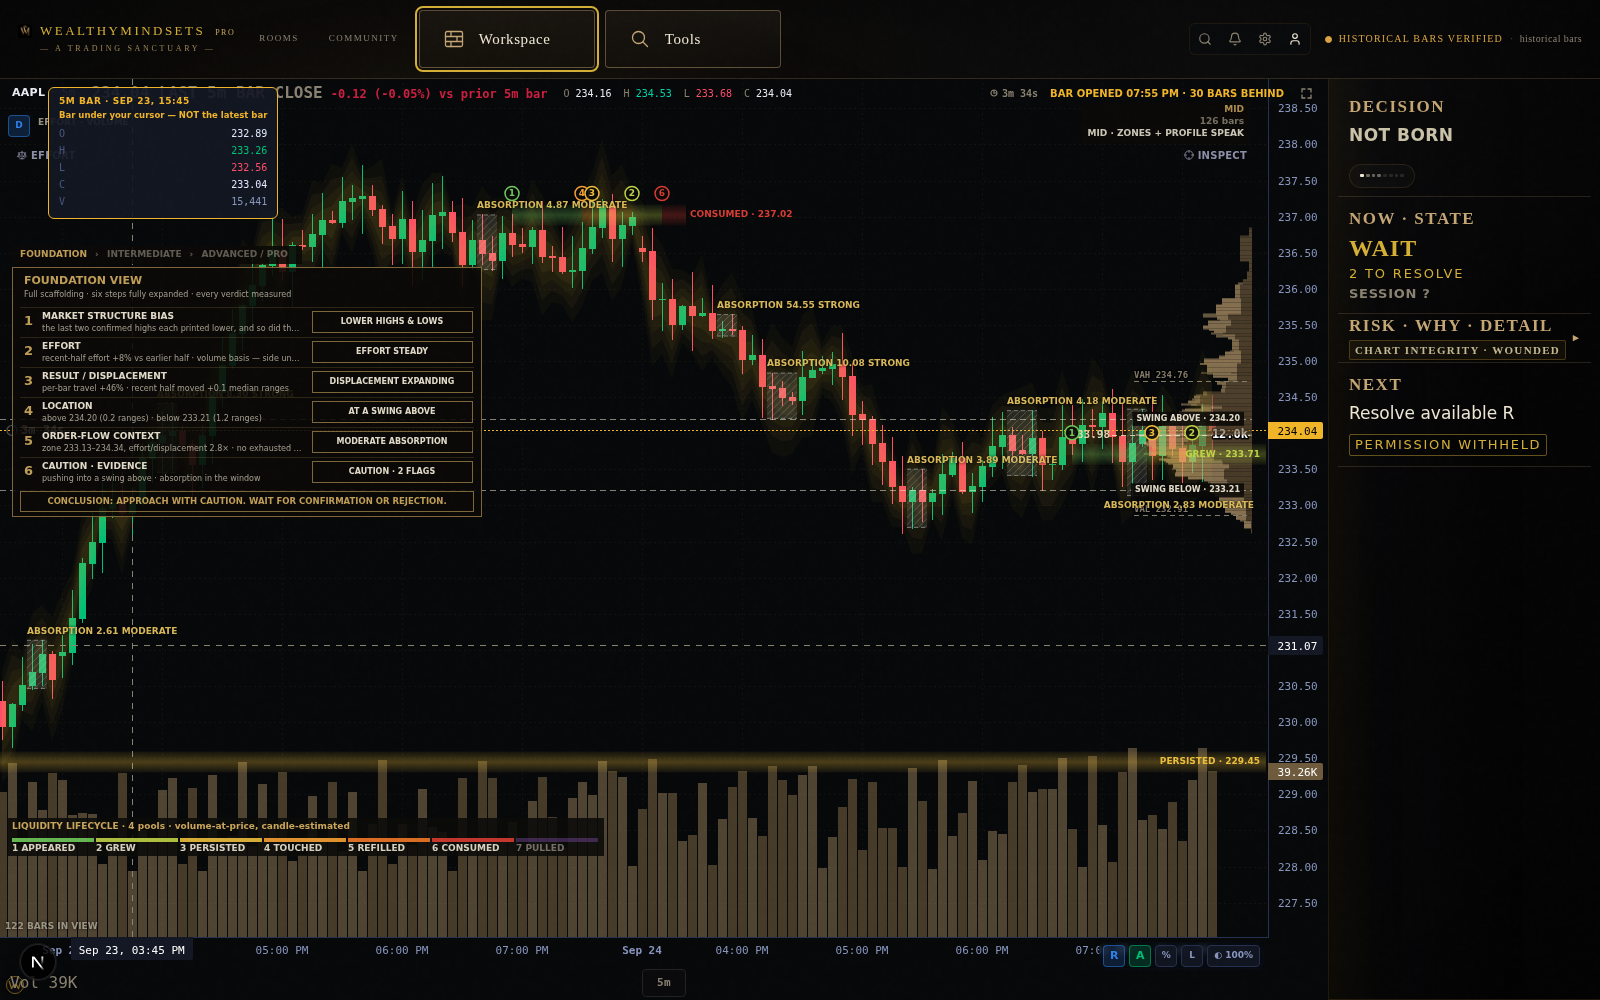
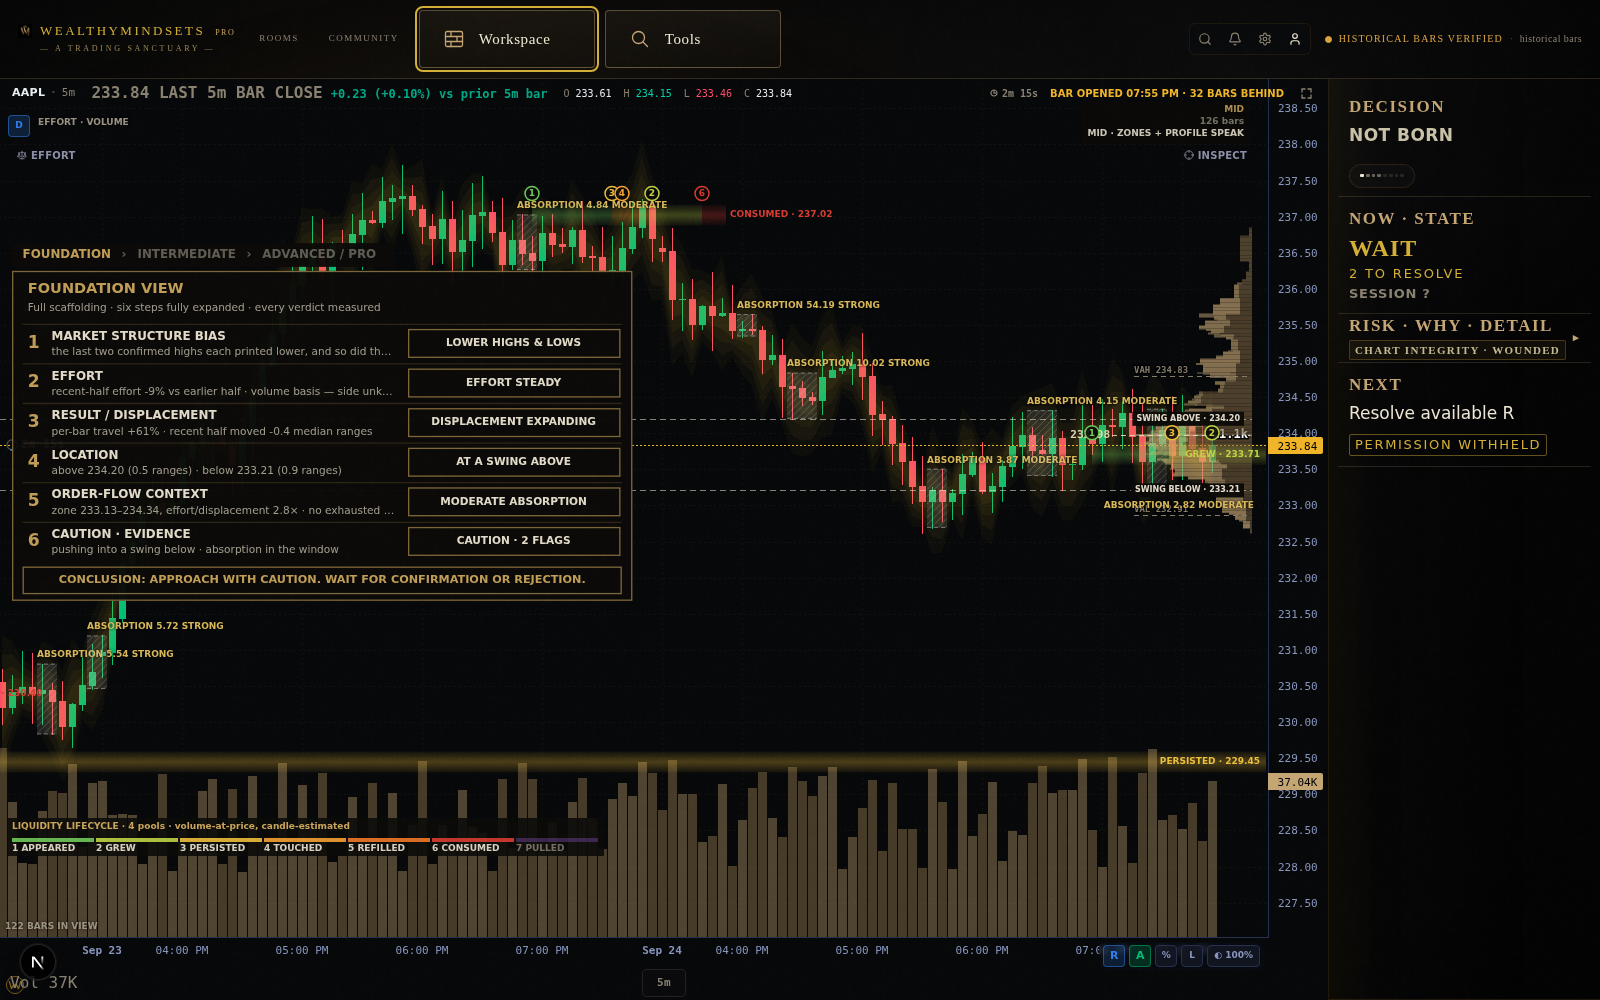
Question mode names its zone on price (Founder question-driven mockup)
The lens band now carries the mockup's ABSORPTION ZONE tag with its range,
and — only when the lens's own control reading says EFFORT ABSORBED — a
leader callout NO CONVINCING DISPLACEMENT with the measured displacement vs
effort. Both clamp to the plot edge (not the axis) and take a free slot;
absorption chips join the frame's obstacle list. Receipt: ds.questionCallout.

Claude-Session: https://claude.ai/code/session_01Gntm2WzCaW5uQMS2aMojoZ

diff --git a/src/components/chart/MainChart.tsx b/src/components/chart/MainChart.tsx
@@ -7994,6 +7994,7 @@ export function MainChart({ symbol, timeframe, setTimeframe, footprintType, foot
               if (freeY == null) { absorbChipsHidden++; continue; }
               const chipY = freeY;
               absorbChipRects.push({ x: chipX, y: chipY, w: chipW, h: chipH });
+              floatingChips.push({ x: chipX, y: chipY, w: chipW, h: chipH });
               if (desktopShelfInstrument) {
                 // Direct annotation, not another gold card. A restrained
                 // shadow protects legibility while the shelf remains the
@@ -8266,6 +8267,57 @@ export function MainChart({ symbol, timeframe, setTimeframe, footprintType, foot
                     ctx.strokeStyle = lens.kind === "EXHAUSTION" ? "rgba(226,92,92,0.7)" : "rgba(240,180,41,0.75)";
                     ctx.lineWidth = 1;
                     ctx.strokeRect(x0 + 0.5, Math.round(top) + 0.5, W - 76 - x0, Math.round(h));
+                    // MOCK 4's tag on the band: the zone NAMED on price, and —
+                    // only when the lens's own control reading says effort was
+                    // absorbed — the measured displacement that failed to come.
+                    // Both lines are the lens's numbers; no trend is claimed.
+                    const tagCol = lens.kind === "EXHAUSTION" ? "rgba(226,92,92,1)" : "rgba(226,92,92,0.95)";
+                    const tag = `${lens.kind === "EXHAUSTION" ? "EXHAUSTION" : "ABSORPTION"} ZONE · ${lens.bandLow.toFixed(2)}–${lens.bandHigh.toFixed(2)}`;
+                    ctx.font = "700 10px ui-sans-serif, system-ui, sans-serif";
+                    const tw = ctx.measureText(tag).width + 16;
+                    // The PLOT's right edge, not the container's: the price
+                    // axis is painted over the overlay (see the absorption chip).
+                    let lensAxisW = 90;
+                    try { const aw = chart.priceScale("right").width(); if (Number.isFinite(aw) && aw > 0) lensAxisW = Math.ceil(aw); } catch {}
+                    const plotR = W - lensAxisW - 4;
+                    const busy = (x: number, y: number, w: number, hh: number) =>
+                      (y < 160 && y + hh > 96) || floatingChips.some(r => x < r.x + r.w + 3 && x + w + 3 > r.x && y < r.y + r.h + 1 && y + hh + 1 > r.y);
+                    const txR = Math.max(4, plotR - tw);
+                    const tagSlots = [
+                      { x: Math.min(txR, Math.max(x0, x0 + (plotR - x0) / 2 - tw / 2)), y: top - 22 },
+                      { x: txR, y: top - 22 },
+                      { x: Math.min(txR, Math.max(4, x0)), y: top - 22 },
+                      { x: Math.min(txR, Math.max(4, x0 - tw - 8)), y: top + h / 2 - 9 },
+                      { x: txR, y: top - 42 },
+                    ];
+                    const slot = tagSlots.find(o => !busy(o.x, o.y, tw, 18)) ?? { x: txR, y: top + h + 4 };
+                    const tx = slot.x, ty = slot.y;
+                    ctx.fillStyle = "rgba(40,8,10,0.92)";
+                    ctx.fillRect(tx, ty, tw, 18);
+                    ctx.strokeStyle = tagCol; ctx.strokeRect(tx + 0.5, ty + 0.5, tw - 1, 17);
+                    ctx.fillStyle = "rgba(255,190,190,1)";
+                    ctx.textAlign = "left"; ctx.textBaseline = "middle";
+                    ctx.fillText(tag, tx + 8, ty + 9.5);
+                    floatingChips.push({ x: tx, y: ty, w: tw, h: 18 });
+                    const c = lens.control;
+                    if (c && c.verdict === "EFFORT ABSORBED") {
+                      const call = `NO CONVINCING DISPLACEMENT · ${Math.round(c.displacement * 100)}% vs EFFORT ${Math.round(c.aggression * 100)}%`;
+                      ctx.font = "700 9px ui-sans-serif, system-ui, sans-serif";
+                      const cw3 = ctx.measureText(call).width;
+                      const ax = plotR - 8, ay = top + h / 2;
+                      const lx = Math.max(4, plotR - cw3 - 30);
+                      let ly = Math.min(H - 40, top + h + 28);
+                      for (let k = 0; k < 4 && busy(lx - 4, ly - 8, cw3 + 8, 16); k++) ly += 18;
+                      ctx.strokeStyle = "rgba(240,180,41,0.85)";
+                      ctx.beginPath(); ctx.arc(ax, ay, 6, 0, Math.PI * 2); ctx.stroke();
+                      ctx.beginPath(); ctx.moveTo(ax - 4, ay + 5); ctx.lineTo(lx + cw3 + 4, ly); ctx.stroke();
+                      ctx.fillStyle = "rgba(0,0,0,0.75)";
+                      ctx.fillRect(lx - 4, ly - 8, cw3 + 8, 16);
+                      ctx.fillStyle = "rgba(240,180,41,1)";
+                      ctx.fillText(call, lx, ly);
+                      floatingChips.push({ x: lx - 4, y: ly - 8, w: cw3 + 8, h: 16 });
+                      ds.questionCallout = "NO_CONVINCING_DISPLACEMENT";
+                    } else ds.questionCallout = "NONE";
                   }
                 }
                 // THE PLATE'S TOP STRIP — ACTIVE QUESTION | QUESTION FOCUS |
@@ -8387,6 +8439,7 @@ export function MainChart({ symbol, timeframe, setTimeframe, footprintType, foot
               }
             } else {
               ds.questionLens = "OFF";
+              ds.questionCallout = "OFF";
             }
 
             /* ── SCAFFOLDING — "SAME SKILL. DEEPER MASTERY. LESS HAND-HOLDING." ──
